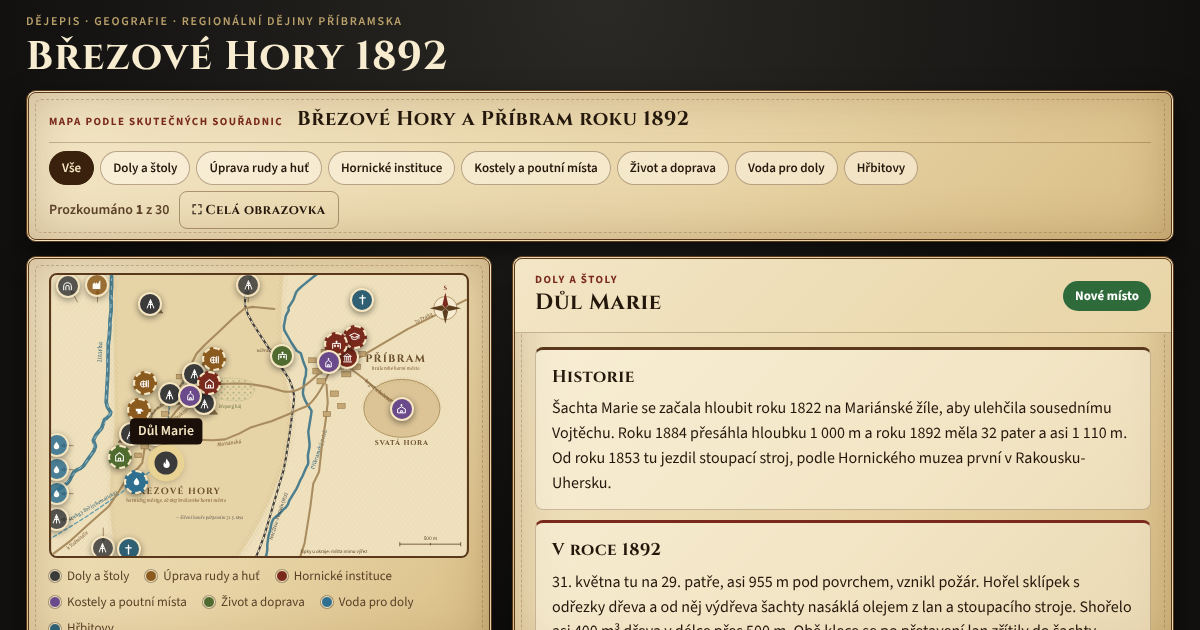
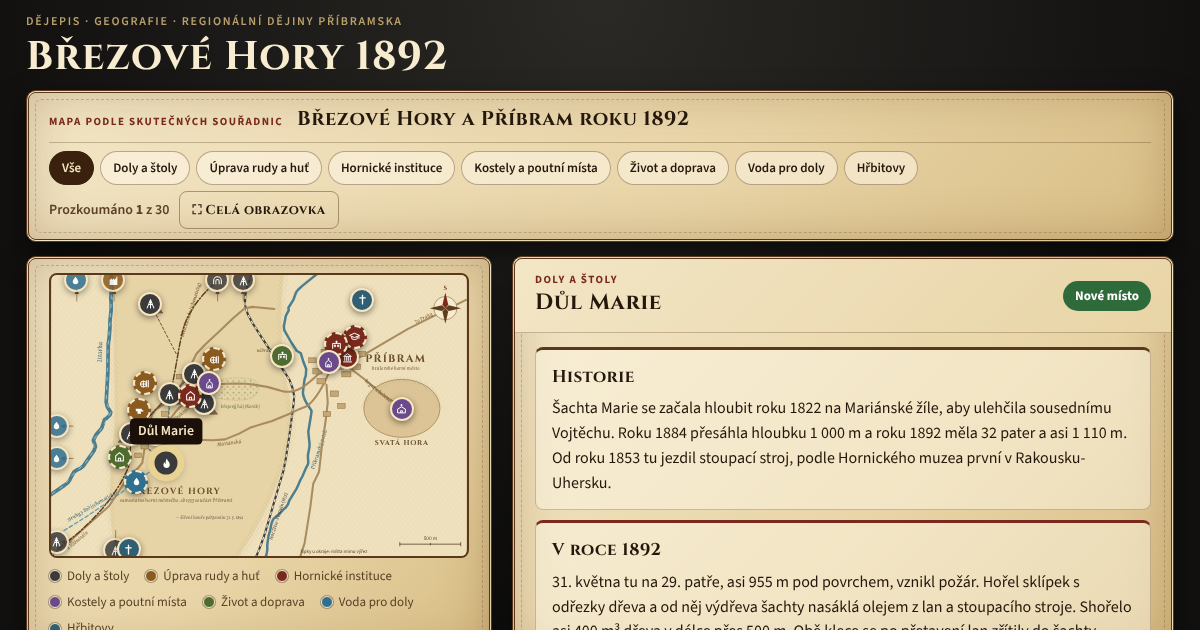
Březové Hory 1892: odkazy na mapy.cz u šachet, technika v dolech, filtr slovníku, oprava Archivu DIAMO
Claude-Session: https://claude.ai/code/session_01HrWVDKT7SKjut35hBh8BN1

diff --git a/brezove-hory-1892/index.html b/brezove-hory-1892/index.html
@@ -393,6 +393,9 @@ body{background:var(--wood) radial-gradient(ellipse at 50% 0%,#2b2925 0%,var(--w
 .src-list li{font-size:15px}
 .pin.approx{border-style:dashed}
 .pin.edge{opacity:.85}
+.pin.edge.dim{opacity:.25}
+#edge-arrows path{transition:opacity .2s}
+#edge-arrows path.dim{opacity:.2}
 .note.pos{margin:10px 0 0;font-size:14px}
 .defbox{margin:0 0 8px;max-width:820px}
 .rez-wrap{overflow-x:auto;margin:14px 0 0;border:1px solid var(--parch-line);border-radius:8px;background:#efe1bd}
@@ -417,6 +420,10 @@ details.adv-warn p{margin:8px 0 0}
 .sh-tbl td.n b{white-space:nowrap}
 .maplink{min-height:36px;padding:4px 10px;border-radius:999px;border:1px solid var(--parch-line);background:#fbf5e4;color:var(--ink);font:600 13px var(--f-body);cursor:pointer;white-space:nowrap}
 .maplink:hover{border-color:var(--red)}
+.sh-links{min-width:150px}
+.sh-links .ext{display:flex;flex-wrap:wrap;gap:4px 10px;margin-top:6px;font-size:13px}
+.sh-links .ext a{color:var(--red);font-weight:600}
+.sh-links .ext-ap{flex-basis:100%;color:var(--ink-2);font-style:italic}
 @media (max-width:640px){
   .sh-tbl thead{display:none}
   .sh-tbl, .sh-tbl tbody, .sh-tbl tr, .sh-tbl td{display:block;width:100%}
@@ -592,9 +599,9 @@ details.adv-warn p{margin:8px 0 0}
         <text x="845" y="410" text-anchor="middle" font-family="Cinzel, Georgia, serif" font-size="17" font-weight="700" fill="#6b4f2c" letter-spacing="2">SVATÁ HORA</text>
 
         <!-- šipky k místům mimo výřez -->
-        <g fill="none" stroke="#7a5a32" stroke-width="1.6" marker-end="url(#arr)">
-          <path d="M60 64 L 60 40"/><path d="M150 64 L 150 40"/><path d="M400 64 L 400 40"/><path d="M462 64 L 462 40"/>
-          <path d="M52 365 L 26 365"/><path d="M52 443 L 26 443"/><path d="M52 645 L 26 645"/><path d="M154 616 L 154 642"/>
+        <g id="edge-arrows" fill="none" stroke="#7a5a32" stroke-width="1.6" marker-end="url(#arr)">
+          <path data-for="octarna" d="M60 64 L 60 40"/><path data-for="hut" d="M150 64 L 150 40"/><path data-for="stola" d="M400 64 L 400 40"/><path data-for="lill" d="M462 64 L 462 40"/>
+          <path data-for="pilska" d="M52 365 L 26 365"/><path data-for="laz" d="M52 443 L 26 443"/><path data-for="rimbaba" d="M52 645 L 26 645"/><path data-for="drkolnov" d="M154 616 L 154 642"/>
         </g>
         <text x="600" y="672" font-family="Source Sans 3, sans-serif" font-size="12" fill="#5e4728">šipky u okraje: místa mimo výřez</text>
 
@@ -746,6 +753,20 @@ details.adv-warn p{margin:8px 0 0}
       <p><b>Šachty byly propojené</b> chodbami na mnoha patrech, překopy a chodbami po žílách. Anna a Vojtěch jsou spojené 750 m dlouhou chodbou vodního patra. Propojení sloužilo k větrání, odvodnění a dopravě, ale 31. května 1892 jím prošel kouř z Marie do všech sousedních dolů.</p>
       <p class="src">Patra a hloubky podle Schenka (1972), Velfla a Hornického muzea; výšky ústí podle Pošepného (1892). Že číslování bylo společné, prameny výslovně neuvádějí, vychází to z porovnání uvedených hloubek. Průběh Vojtěšské žíly je v řezu jen naznačený: šachta Vojtěch byla roku 1779 založena mezi Vojtěšskou žílou a žílou Matky Boží pod pahorkem Koráb.</p>
     </div>
+    <div class="card" style="margin-top:12px"><span class="tag">Technika</span>
+      <h3 style="margin-top:8px">Jaké stroje v dolech pracovaly roku 1892</h3>
+      <p>Březové Hory patřily v 19. století k technicky nejvyspělejším dolům monarchie. Roku 1892 tu ale vedle sebe pracovaly stroje z různých dob: parní stroje, vodní kola i ruční doprava.</p>
+      <ul class="plist">
+        <li><b>Těžní stroje.</b> Na začátku století táhly lano s nádobou na rudu koňské <b>žentoury</b> a <b>vodní kola</b>. Pak přišly <b>parní těžní stroje</b>: Marie 1846 (první v revíru), Anna 1858, Vojtěch 1859, Štěpán v Bohutíně 1868, Prokop 1869, Ševčín (Francšachta) 1880, Lill 1882 a Řimbaba 1885. Na Vojtěchu stál od roku 1873 stroj o výkonu 300 koní, roku 1889 ho nahradil nový od firmy Breitfeld-Daněk o výkonu 450 koní, který mohl těžit až z hloubky 1 300 m. <b>Roku 1892 tedy všechny hlavní březohorské šachty těžily párou.</b> Poslední koňský žentour (Řimbaba) skončil roku 1876, poslední těžní vodní kolo (Drkolnov) roku 1891. Uhlí pro kotle přivážela od roku 1875 železnice.</li>
+        <li><b>Lana.</b> Místo konopných lan se tu jako jedněch z prvních v Evropě používala <b>drátěná lana</b>: poprvé roku 1836, běžně od roku 1842. Od roku 1853 je vyráběla vlastní drátovna a lanovna na Březových Horách a vyvážela je i do ciziny. Roku 1875 vytáhla šachta Vojtěch jako první na světě náklad jediným lanem z hloubky 1 000 m.</li>
+        <li><b>Klece.</b> Dřív se ruda vytahovala v sudech a nádobách. <b>Těžní klec</b>, do které se zavezl celý vozík, zavedli na Marii roku 1853, na Anně 1858 a na Prokopu 1859. Klec visela na laně, vodila se po dřevěném vedení v šachtě a měla zachycovací zařízení pro případ přetržení lana. Na Francšachtě jezdily roku 1892 dvoupatrové klece, na Anně a Prokopu je zavedli až v letech 1894–1896.</li>
+        <li><b>Stoupací stroj</b> (Fahrkunst). Dvě dlouhé tyče se stupínky se střídavě pohybovaly nahoru a dolů a horník při každém zdvihu přestoupil na protější tyč. Šetřil síly při fárání do kilometrové hloubky. První v monarchii jezdil na Marii (prameny uvádějí rok 1849 i 1853), roku 1892 ho měly Marie a Anna. Na Marii ho poháněl parní stroj, který přes převod zároveň čerpal vodu. Poslední stoupací stroj (na Marii) zrušili roku 1916.</li>
+        <li><b>Čerpání vody.</b> Vodu z hlubin čerpala pístová čerpadla poháněná vodními koly, od 60. let <b>vodosloupcovými stroji</b> (na Vojtěchu od 1862, 32 koní, poháněl 10 čerpadel) a parou (samostatné parní čerpací stroje na Vojtěchu a Lillu od 1863). Proto doly i v době páry potřebovaly vodu z brdských rybníků a Struh.</li>
+        <li><b>Vozíky, koleje, výhybky.</b> V chodbách se ruda vozila v dřevěných, železem kovaných <b>důlních vozících</b> (hornicky <b>hunt</b>). Vozík jezdil po kolejích a tlačil ho <b>vozač</b>, na hlavních chodbách od roku 1875 táhli vlaky vozíků i <b>koně</b>. Na křižovatkách chodeb se vozíky převáděly <b>výhybkami</b> a <b>točnami</b>, u šachty je narážeč zavezl do klece. Chodby se proto razily s mírným sklonem k šachtě, aby plný vozík jel snáz a voda odtékala. Pokusné lokomotivy na stlačený vzduch se objevily na přelomu 70. a 80. let, běžně se ale vozilo ručně až do 20. století.</li>
+        <li><b>Stlačený vzduch a světlo.</b> Od roku 1873 poháněl parní kompresor na Lillu vrtací stroje a malé vrátky v podzemí (roku 1896 už bylo kompresorů osm). Horníci si svítili <b>kahany</b> (otevřený plamen): elektrické osvětlení se v revíru zavádělo až v letech 1893–1896. Elektrické těžní stroje přišly až ve 20. století.</li>
+      </ul>
+      <p class="src">Podle: <a href="https://podzemi.solvayovylomy.cz/histhor/lokality/pribram2/PRIBRAM2.htm" target="_blank" rel="noopener">Dějiny dolování polymetalických rud (Bambas)</a> · <a href="https://www.muzeum-pribram.cz/userfiles/vystavy/1000m/P1.pdf" target="_blank" rel="noopener">Hornické muzeum: Důl Vojtěch</a> · <a href="https://www.muzeum-pribram.cz/userfiles/vystavy/1000m/P4.pdf" target="_blank" rel="noopener">Hornické muzeum: technika dolu Vojtěch</a>. Popis vozíků, kolejí a výhybek je obecný pro doly té doby.</p>
+    </div>
     <div class="card" style="margin-top:12px"><span class="tag">Důlní měřiči (markšajdři)</span>
       <h3 style="margin-top:8px">Precizní práce ve tmě</h3>
       <p>Bez důlních měřičů by nebylo možné patra ani spojení šachet vůbec vybudovat. <b>Markšajdr</b> (z něm. Markscheider) musel v úplné tmě, ve vlhku a s kahanem v ruce změřit každou chodbu tak přesně, aby se dalo plánovat na stovky metrů dopředu.</p>
@@ -764,10 +785,10 @@ details.adv-warn p{margin:8px 0 0}
       <p><b>Kde jsou dnes:</b></p>
       <ul class="plist">
         <li><b>Hornické muzeum Příbram</b> má ve sbírkách historické mapy revíru; část byla digitalizována a je k prohlížení na portálu <a href="https://chartae-antiquae.cz/" target="_blank" rel="noopener">Chartae antiquae</a>.</li>
-        <li><b>DIAMO, státní podnik</b>, nástupce Rudných dolů Příbram, sídlí od roku 2001 v budově bývalého horního ředitelství a spravuje dokumentaci uzavřených dolů.</li>
+        <li><b>Archiv DIAMO</b> (státní podnik DIAMO spravuje dokumentaci uzavřených dolů jako nástupce Rudných a Uranových dolů Příbram) sídlí od počátku 90. let v areálu bývalé <b>šachty č. 15</b> uranových dolů v Příbrami-Brodu. Ve fondu Rudné doly Příbram jsou i historické důlní mapy březohorského revíru a důlně měřická dokumentace z Březových Hor; uložena je v bývalé lampovně šachty. V archivu je badatelna. (Budovu bývalého horního ředitelství na náměstí T. G. Masaryka DIAMO užíval jen v letech 2001–2006, dnes patří městu.)</li>
         <li><b>Česká geologická služba (Geofond)</b> shromažďuje dokumentaci starých a uzavřených důlních děl z celé republiky.</li>
       </ul>
-      <p class="src">Přesné uložení konkrétních map z 19. století si ověř přímo v Hornickém muzeu Příbram; dokumentace se během 20. století mezi institucemi přesouvala.</p>
+      <p class="src">Podle: <a href="https://www.diamo.cz/storage/app/media/Archiv/Podbrdsko_XXXI_2024_D%C4%9Bjiny%20a%20sou%C4%8Dasnost%20Archivu%20DIAMO.pdf" target="_blank" rel="noopener">P. Kantorová: Dějiny a současnost Archivu DIAMO (Podbrdsko 2024)</a> · <a href="https://www.diamo.cz/archiv-diamo/kontakt" target="_blank" rel="noopener">Archiv DIAMO – kontakt</a>. Přesné uložení konkrétních map z 19. století si ověř v Hornickém muzeu nebo v Archivu DIAMO; dokumentace se během 20. století mezi institucemi přesouvala.</p>
     </div>
   </div>
 </section>
@@ -782,7 +803,7 @@ details.adv-warn p{margin:8px 0 0}
     </div>
     <div class="filters" id="sh-filters" role="group" aria-label="Filtr šachet" style="margin-bottom:6px"></div>
     <div id="sh-list"></div>
-    <p class="note" style="margin-top:14px">Hloubka „1892“ je stav v roce katastrofy, „konečná“ je největší hloubka, které šachta dosáhla během celé těžby (často až ve 20. století). Pozdější šachty, které roku 1892 ještě neexistovaly: Obecnická průzkumná jáma (1912), Hůrka (1942) a slepé jámy Řimbabská a Eduard v Bohutíně (1956). Po roce 1948 vznikly na Příbramsku i desítky uranových jam.</p>
+    <p class="note" style="margin-top:14px">Odkazy <b>mapy.cz</b> a <b>19. století</b> otevřou v nové kartě dnešní mapu a mapu z 19. století (císařské otisky stabilního katastru). U průzkumných a starých jam přesnou polohu neznáme, odkaz pak vede jen k obci nebo dolu, u kterého jáma ležela. Hloubka „1892“ je stav v roce katastrofy, „konečná“ je největší hloubka, které šachta dosáhla během celé těžby (často až ve 20. století). Pozdější šachty, které roku 1892 ještě neexistovaly: Obecnická průzkumná jáma (1912), Hůrka (1942) a slepé jámy Řimbabská a Eduard v Bohutíně (1956). Po roce 1948 vznikly na Příbramsku i desítky uranových jam.</p>
     <p class="src" style="margin-top:10px">Podle: <a href="http://muzeum.mineral.cz/hornictvi/brezove-hory/souhrn.php" target="_blank" rel="noopener">Březohorský rudní revír – hloubky jam</a> · <a href="https://podzemi.solvayovylomy.cz/cteni/1000m/03.htm" target="_blank" rel="noopener">Doba třetí (1779–1875)</a> · <a href="http://muzeum.mineral.cz/hornictvi/brezove-hory/historie-dobyvani/dolovani-rud-19-stoleti.php" target="_blank" rel="noopener">Dolování rud v 19. století</a> · <a href="https://www.bergbaumuseum.de/fileadmin/forschung/zeitschriften/der-anschnitt/1972/1972-02/anschnitt-2-1972-schenk-grubenunglueck.pdf" target="_blank" rel="noopener">G. W. Schenk 1972</a> (hloubky 1892)</p>
   </div>
 </section>
@@ -980,6 +1001,7 @@ details.adv-warn p{margin:8px 0 0}
         <input type="search" id="lex-q" placeholder="Hledat (např. šichta, fárat, patro)">
       </label>
     </div>
+    <div class="filters" id="lex-f" role="group" aria-label="Filtr pojmů podle štítku" style="margin:0 0 14px"></div>
     <div class="grid g3 lex" id="lex"></div>
   </div>
 </section>
@@ -1374,6 +1396,7 @@ function renderMap() {
     const show = filter === 'all' || l.cat === filter;
     const pin = document.querySelector(`.pin[data-id="${l.id}"]`);
     pin.classList.toggle('dim', !show); pin.tabIndex = show ? 0 : -1;
+    const arw = document.querySelector(`#edge-arrows [data-for="${l.id}"]`); if (arw) arw.classList.toggle('dim', !show);
     pin.classList.toggle('seen', seen.has(l.id));
     pin.setAttribute('aria-current', String(l.id === currentLoc));
     const li = document.querySelector(`#loc-list [data-id="${l.id}"]`);
@@ -2250,39 +2273,48 @@ const SH_GROUPS = {
   pr:   { label: 'Průzkumné jámy', title: 'Průzkumné jámy', intro: 'Mělké jámy, kterými závod hledal nové žíly v okolí Příbrami. Většina dosáhla jen jednoho až několika pater.' },
   st:   { label: 'Staré jámy', title: 'Staré jámy, které už nesloužily', intro: 'Na Březových Horách se těžilo od 14. století a hřbet je posetý starými jámami. Tyto se v pramenech připomínají jako starší nebo opuštěné; v přehledech hlavních jam z konce 19. století už nefigurují.' }
 };
-// n = jméno, g = skupina, z = založena, h = hloubka, p = poznámka, d = dnes, m = id místa na mapě
+// ll = [šířka, délka], q = 'p' přesná poloha, 'a:…' přibližně (u čeho); n = jméno, g = skupina, z = založena, h = hloubka, p = poznámka, d = dnes, m = id místa na mapě
 const SHAFTS = [
-  { n: 'Vojtěch', a: 'Adalbert', g: 'bh', z: '1779', h: '1 099 m (1892)', p: '1875 první na světě 1 000 m; nejvíc obětí katastrofy', d: 'Hornické muzeum, vyhlídková věž na šachetní budově', m: 'vojtech' },
-  { n: 'Anna', g: 'bh', z: '1789', h: '942 m (1892)', p: 'stoupací stroj; hlavní základna záchrany', d: 'Hornické muzeum, parní těžní stroj z roku 1914', m: 'anna' },
-  { n: 'Císař František Josef I.', a: 'Ševčinská, lidově Francšachta', g: 'bh', z: '1813', h: '991 m (1892)', p: 'dvoupatrové klece; vtažná jáma; kouř sem dorazil první', d: 'hlavní areál Hornického muzea (Ševčinský důl)', m: 'sevcin' },
-  { n: 'Marie', g: 'bh', z: '1822', h: 'asi 1 110 m (1892)', p: 'stoupací stroj od 1853; ohnisko požáru', d: 'Mariánská štola, pomník vdovám a sirotkům', m: 'marie' },
-  { n: 'Prokop', g: 'bh', z: '1832', h: '909 m (1892)', p: 'klecová těžba od 1858, parní stroj od 1869', d: 'Prokopská štola s důlním vláčkem', m: 'prokop' },
-  { n: 'Drkolnov', a: 'původně August', g: 'bh', z: '1836', h: 'konečná 425 m', p: 'podzemní vodní kolo o průměru 12,4 m', d: 'vodní kolo přístupné s průvodcem Hornického muzea', m: 'drkolnov' },
-  { n: 'Jarošovka', g: 'cj', z: '1814 (obnovena)', h: 'konečná 219 m', p: 'prohloubena 1864', d: '' },
-  { n: 'Ferdinand', g: 'cj', z: '1820', h: 'konečná 325 m', p: 'od 1866 zděná šachetní budova; dobývala Strachovskou žílu', d: 'místní název Ferdinandka', m: 'ferdinand' },
-  { n: 'Lill', g: 'cj', z: '1857', h: 'konečná 455 m', p: 'v provozu asi do 1902; nenapojena na dědičnou štolu', d: 'část haldy přenesena do Hornického muzea', m: 'lill' },
-  { n: 'Štěpán', g: 'bo', z: '1827', h: 'konečná 864 m', p: 'pojmenována po arcivévodovi Štěpánovi', d: '' },
-  { n: 'František', g: 'bo', z: '1843', h: 'konečná 133 m', p: 'parní těžní stroj od 1850; 1859 průraz dědičné štoly do Řimbaby', d: '' },
-  { n: 'Řimbaba', a: 'Seegen Gottes', g: 'bo', z: '1843', h: '270 m', p: 'parní těžba od 1885, uzavřena 1900', d: 'vyhlídková věž', m: 'rimbaba' },
-  { n: 'Kozičín', g: 'bo', z: '1870', h: '200 m', p: 'nenapojena na dědičnou štolu', d: '' },
-  { n: 'Rudolf', g: 'bo', z: '1878', h: 'konečná 1 199 m', p: 'později důl 25. února', d: '' },
-  { n: 'Zdabořská', g: 'pr', z: '1858', h: '92 m', p: '', d: '' },
-  { n: 'Schwarzenberská', a: 'u Žežic', g: 'pr', z: '1862', h: '158 m', p: 'hloubila ji obec Příbram a pražské arcibiskupství', d: '' },
-  { n: 'Sádecká', g: 'pr', z: '1866', h: '240 m', p: 'práce přerušeny 1869', d: '' },
-  { n: 'Svatohorská', g: 'pr', z: '1867', h: '300 m', p: '', d: '' },
-  { n: 'Květenská', g: 'pr', z: '1867–1871', h: '270 m', p: 'průzkum do 1885', d: '' },
-  { n: 'Novohospodská', g: 'pr', z: '1885', h: '44 m', p: '', d: '' },
-  { n: 'Třebská', g: 'pr', z: '1887', h: '60 m', p: '', d: '' },
-  { n: 'Narysovská', g: 'pr', z: '1892', h: '64 m', p: 'založena v roce katastrofy', d: '' },
-  { n: 'Mučednická', a: 'pumpařská', g: 'st', z: 'asi 17. stol.', h: '', p: 'stará čerpací jáma na Mučednické žíle ze 17. století; roku 1813 se na jejím místě obnovila šachta, pozdější Císař František Josef I.', d: '' },
-  { n: 'Janská ležatá jáma', g: 'st', z: 'před 1779', h: '', p: 'šikmá jáma na Janské žíle; roku 1787 vedle ní vznikla svislá Janská jáma a 1789 Anna', d: '' },
-  { n: 'Strachovská', a: 'Strachová', g: 'st', z: 'stará', h: '', p: 'roku 1813 k ní dorazila dědičná štola; žílu pak dobývala šachta Ferdinand', d: '' },
-  { n: 'Volfgangova', a: 'Wolfgang', g: 'st', z: 'stará, hlavní od 1827', h: '', p: 'hlavní jáma na Volfgangově žíle u Drkolnova; 1838 po poruše čerpání zatopena', d: '' },
+  { n: 'Vojtěch', ll: [49.6861, 13.99139], q: 'p', a: 'Adalbert', g: 'bh', z: '1779', h: '1 099 m (1892)', p: '1875 první na světě 1 000 m; nejvíc obětí katastrofy', d: 'Hornické muzeum, vyhlídková věž na šachetní budově', m: 'vojtech' },
+  { n: 'Anna', ll: [49.68762, 13.99417], q: 'p', g: 'bh', z: '1789', h: '942 m (1892)', p: 'stoupací stroj; hlavní základna záchrany', d: 'Hornické muzeum, parní těžní stroj z roku 1914', m: 'anna' },
+  { n: 'Císař František Josef I.', ll: [49.68315, 13.98702], q: 'p', a: 'Ševčinská, lidově Francšachta', g: 'bh', z: '1813', h: '991 m (1892)', p: 'dvoupatrové klece; vtažná jáma; kouř sem dorazil první', d: 'hlavní areál Hornického muzea (Ševčinský důl)', m: 'sevcin' },
+  { n: 'Marie', ll: [49.68105, 13.99097], q: 'p', g: 'bh', z: '1822', h: 'asi 1 110 m (1892)', p: 'stoupací stroj od 1853; ohnisko požáru', d: 'Mariánská štola, pomník vdovám a sirotkům', m: 'marie' },
+  { n: 'Prokop', ll: [49.68543, 13.9953], q: 'p', g: 'bh', z: '1832', h: '909 m (1892)', p: 'klecová těžba od 1858, parní stroj od 1869', d: 'Prokopská štola s důlním vláčkem', m: 'prokop' },
+  { n: 'Drkolnov', ll: [49.67179, 13.98408], q: 'p', a: 'původně August', g: 'bh', z: '1836', h: 'konečná 425 m', p: 'podzemní vodní kolo o průměru 12,4 m', d: 'vodní kolo přístupné s průvodcem Hornického muzea', m: 'drkolnov' },
+  { n: 'Jarošovka', ll: [49.6935, 13.9945], q: 'a:Černé jámy u Ferdinandu', g: 'cj', z: '1814 (obnovena)', h: 'konečná 219 m', p: 'prohloubena 1864', d: '' },
+  { n: 'Ferdinand', ll: [49.69277, 13.98919], q: 'p', g: 'cj', z: '1820', h: 'konečná 325 m', p: 'od 1866 zděná šachetní budova; dobývala Strachovskou žílu', d: 'místní název Ferdinandka', m: 'ferdinand' },
+  { n: 'Lill', ll: [49.697, 14.0003], q: 'p', g: 'cj', z: '1857', h: 'konečná 455 m', p: 'v provozu asi do 1902; nenapojena na dědičnou štolu', d: 'část haldy přenesena do Hornického muzea', m: 'lill' },
+  { n: 'Štěpán', ll: [49.65836, 13.95061], q: 'p', g: 'bo', z: '1827', h: 'konečná 864 m', p: 'pojmenována po arcivévodovi Štěpánovi', d: '' },
+  { n: 'František', ll: [49.6572, 13.9505], q: 'a:Bohutín', g: 'bo', z: '1843', h: 'konečná 133 m', p: 'parní těžní stroj od 1850; 1859 průraz dědičné štoly do Řimbaby', d: '' },
+  { n: 'Řimbaba', ll: [49.66647, 13.96503], q: 'p', a: 'Seegen Gottes', g: 'bo', z: '1843', h: '270 m', p: 'parní těžba od 1885, uzavřena 1900', d: 'vyhlídková věž', m: 'rimbaba' },
+  { n: 'Kozičín', ll: [49.6742, 13.9511], q: 'a:Kozičín', g: 'bo', z: '1870', h: '200 m', p: 'nenapojena na dědičnou štolu', d: '' },
+  { n: 'Rudolf', ll: [49.6572, 13.9505], q: 'a:Bohutín', g: 'bo', z: '1878', h: 'konečná 1 199 m', p: 'později důl 25. února', d: '' },
+  { n: 'Zdabořská', ll: [49.6623, 13.9802], q: 'a:Zdaboř', g: 'pr', z: '1858', h: '92 m', p: '', d: '' },
+  { n: 'Schwarzenberská', ll: [49.6535, 13.996], q: 'a:Žežice', a: 'u Žežic', g: 'pr', z: '1862', h: '158 m', p: 'hloubila ji obec Příbram a pražské arcibiskupství', d: '' },
+  { n: 'Sádecká', ll: [49.7331, 13.9827], q: 'a:Sádek', g: 'pr', z: '1866', h: '240 m', p: 'práce přerušeny 1869', d: '' },
+  { n: 'Svatohorská', ll: [49.6854, 14.0188], q: 'a:Svatá Hora', g: 'pr', z: '1867', h: '300 m', p: '', d: '' },
+  { n: 'Květenská', ll: [49.7053, 14.0255], q: 'a:vrch Květná', g: 'pr', z: '1867–1871', h: '270 m', p: 'průzkum do 1885', d: '' },
+  { n: 'Novohospodská', ll: [49.6896, 14.0359], q: 'a:Nová Hospoda', g: 'pr', z: '1885', h: '44 m', p: '', d: '' },
+  { n: 'Třebská', ll: [49.6207, 13.9714], q: 'a:Třebsko', g: 'pr', z: '1887', h: '60 m', p: '', d: '' },
+  { n: 'Narysovská', ll: [49.6431, 13.9678], q: 'a:Narysov', g: 'pr', z: '1892', h: '64 m', p: 'založena v roce katastrofy', d: '' },
+  { n: 'Mučednická', ll: [49.68315, 13.98702], q: 'a:u Ševčinského dolu', a: 'pumpařská', g: 'st', z: 'asi 17. stol.', h: '', p: 'stará čerpací jáma na Mučednické žíle ze 17. století; roku 1813 se na jejím místě obnovila šachta, pozdější Císař František Josef I.', d: '' },
+  { n: 'Janská ležatá jáma', ll: [49.68762, 13.99417], q: 'a:u dolu Anna', g: 'st', z: 'před 1779', h: '', p: 'šikmá jáma na Janské žíle; roku 1787 vedle ní vznikla svislá Janská jáma a 1789 Anna', d: '' },
+  { n: 'Strachovská', ll: [49.69277, 13.98919], q: 'a:u dolu Ferdinand', a: 'Strachová', g: 'st', z: 'stará', h: '', p: 'roku 1813 k ní dorazila dědičná štola; žílu pak dobývala šachta Ferdinand', d: '' },
+  { n: 'Volfgangova', ll: [49.67179, 13.98408], q: 'a:u Drkolnova', a: 'Wolfgang', g: 'st', z: 'stará, hlavní od 1827', h: '', p: 'hlavní jáma na Volfgangově žíle u Drkolnova; 1838 po poruše čerpání zatopena', d: '' },
   { n: 'Kovářská', g: 'st', z: 'stará', h: '', p: 'starý důl na Vojtěšské žíle, obnovený roku 1810', d: '' },
   { n: 'Novoroční', g: 'st', z: 'stará', h: '', p: 'ještě roku 1790 otevřená', d: '' },
-  { n: 'Bohutínská', g: 'st', z: 'před 1832', h: '', p: 'hloubení zastaveno roku 1832 kvůli přívalu vody', d: '' }
+  { n: 'Bohutínská', ll: [49.6572, 13.9505], q: 'a:Bohutín', g: 'st', z: 'před 1832', h: '', p: 'hloubení zastaveno roku 1832 kvůli přívalu vody', d: '' }
 ];
 let shFilter = 'all';
+function extLinks(s) {
+  if (!s.ll) return '';
+  const [la, lo] = s.ll, id = encodeURIComponent(lo + ',' + la);
+  const ap = s.q !== 'p';
+  const u = (typ, z) => `https://mapy.cz/${typ}?x=${lo}&y=${la}&z=${z}&source=coor&id=${id}`;
+  return `<span class="ext">${ap ? `<span class="ext-ap" title="Přesná poloha jámy není známa">přibližně: ${esc(s.q.slice(2))}</span>` : ''}` +
+    `<a href="${u('zakladni', ap ? 15 : 17)}" target="_blank" rel="noopener">mapy.cz</a>` +
+    `<a href="${u('19stoleti', ap ? 15 : 16)}" target="_blank" rel="noopener">19. století</a></span>`;
+}
 function renderShafts() {
   const chip = (k, l) => `<button class="chip" type="button" data-shf="${k}" aria-pressed="${k === shFilter}">${esc(l)}</button>`;
   $('sh-filters').innerHTML = chip('all', 'Vše') + Object.entries(SH_GROUPS).map(([k, g]) => chip(k, g.label)).join('');
@@ -2294,7 +2326,7 @@ function renderShafts() {
       rows.map(s => `<tr><td class="n" data-l="Šachta"><b>${esc(s.n)}</b>${s.a ? ` <span class="src">(${esc(s.a)})</span>` : ''}</td>
         <td data-l="Založena">${esc(s.z)}</td>${old ? '' : `<td data-l="Hloubka">${esc(s.h)}</td>`}
         <td data-l="${old ? 'Co o ní víme' : 'Poznámka'}">${esc(s.p)}</td><td data-l="Dnes">${esc(s.d || '–')}</td>
-        <td>${s.m ? `<button class="maplink" type="button" data-loc="${s.m}">Ukázat na mapě</button>` : ''}</td></tr>`).join('') +
+        <td class="sh-links">${s.m ? `<button class="maplink" type="button" data-loc="${s.m}">Ukázat na mapě</button>` : ''}${extLinks(s)}</td></tr>`).join('') +
       '</tbody></table></div></div>';
   }).join('');
 }
@@ -2345,6 +2377,9 @@ const LEX = [
   ['Vrchní horní správce', 'Lidé', 'Vedoucí úředník, který řídil provoz skupiny dolů. Roku 1892 jím byl Hugo Grögler, který vedl i záchranu.'],
   /* důl */
   ['Březové Hory (obec)', 'Právo a úřady', 'Roku 1892 byly Březové Hory samostatnou obcí se svým starostou a obecním výborem, horním městečkem odděleným od Příbrami. Rozhodnutím císaře Františka Josefa I. z 20. dubna 1896 byly povýšeny na královské horní město, privilegium a znak dostaly 19. ledna 1897. Samostatným městem zůstaly až do roku 1953, kdy se staly součástí Příbrami. Dnes jsou její městskou částí.'],
+  ['Ohlubeň', 'Důl', 'Ústí šachty na povrchu a plošina kolem něj, kde se nakládaly a vykládaly klece, nastupovali horníci a odkud se měří hloubka šachty i pater („metrů pod ohlubní“). Nad ohlubní stojí těžní věž nebo šachetní budova.'],
+  ['Překop', 'Důl', 'Chodba ražená napříč nebo kolmo ke směru žíly, obvykle v hluchém kameni (hlušině). Spojuje šachtu se žílami nebo jednotlivé žíly mezi sebou a slouží k dopravě a větrání. Chodba vedená podél žíly se naopak nazývá směrná.'],
+  ['Couk', 'Žíly', 'Staré hornické slovo pro žílu nebo žilné pásmo, z německého Zug (tah, pruh). Podle něj se jmenuje třeba setkání hornických měst Jílovský sCOUK.'],
   ['Francšachta', 'Důl', 'Lidové jméno šachty Císař František Josef I. (dnes Ševčinský důl), odvozené od císařova jména Franz. Kouř sem 31. května 1892 dorazil jako první.'],
   ['Důlní mapa', 'Důl', 'Mapa chodeb jednoho patra nebo svislý řez dolem, nakreslená podle měření markšajdrů. Zakreslují se do ní i žíly. Historické mapy příbramského revíru má Hornické muzeum Příbram.'],
   ['Markšajdka', 'Důl', 'Měřická kancelář při horním ředitelství, kde se zpracovávala měření a kreslily důlní mapy.'],
@@ -2390,12 +2425,18 @@ const LEX = [
   ['Hory', 'Jazyk', 'Ve staré češtině znamenalo slovo „hory“ také doly (odtud „horník“). Březové Hory jsou tedy doly v březovém lese, ne hory jako kopce.'],
   ['Sv. Prokop a sv. Barbora', 'Jazyk', 'Patroni horníků. Na Březových Horách mají oba oltář v kostele sv. Prokopa.']
 ];
+let lexCat = 'all';
 function renderLex() {
   const q = $('lex-q').value.trim().toLocaleLowerCase('cs');
-  const list = LEX.filter(([t, c, d]) => !q || (t + ' ' + c + ' ' + d).toLocaleLowerCase('cs').includes(q));
+  const cats = [...new Set(LEX.map(x => x[1]))].sort((a, b) => a.localeCompare(b, 'cs'));
+  const chip = (k, l, n) => `<button class="chip" type="button" data-lc="${esc(k)}" aria-pressed="${k === lexCat}">${esc(l)} <span style="opacity:.6">${n}</span></button>`;
+  $('lex-f').innerHTML = chip('all', 'Vše', LEX.length) + cats.map(c => chip(c, c, LEX.filter(x => x[1] === c).length)).join('');
+  const list = LEX.filter(([t, c, d]) => (lexCat === 'all' || c === lexCat) && (!q || (t + ' ' + c + ' ' + d).toLocaleLowerCase('cs').includes(q)));
   $('lex').innerHTML = list.length ? list.map(([t, c, d]) => `<div class="card"><span class="tag">${esc(c)}</span><h3>${esc(t)}</h3><p>${esc(d)}</p></div>`).join('')
     : '<p style="grid-column:1/-1;text-align:center;color:var(--ink-2)">Žádný pojem neodpovídá hledání.</p>';
 }
+
+$('lex-f').addEventListener('click', e => { const b = e.target.closest('[data-lc]'); if (!b) return; lexCat = b.dataset.lc; renderLex(); });
 
 /* ==================== KVÍZ ==================== */
 const Q_TOPICS = {
@@ -2489,7 +2530,7 @@ const QUIZ = [
   { id: 'v11', t: 'voda', z: 'Vodní kola', q: 'K čemu sloužila vodní kola v podzemí?', a: 'Čerpala vodu z dolů a pohybovala stroji.',
     w: ['Vyráběla elektřinu pro osvětlení.', 'Mlela obilí pro horníky.', 'Větrala chodby.'], e: 'Stála v komorách na tzv. vodním patře. Vodní kolo na Drkolnově má průměr 12,4 m.' },
   { id: 'v12', t: 'voda', z: 'Parní stroje', q: 'Čím se od poloviny 19. století postupně nahrazovala vodní kola?', a: 'Parními stroji.',
-    w: ['Elektromotory.', 'Koňskými žentoury.', 'Větrnými mlýny.'], e: 'Na Vojtěchu dostali parní čerpací stroj roku 1859. Vodu z Brd ale doly potřebovaly dál.' },
+    w: ['Elektromotory.', 'Koňskými žentoury.', 'Větrnými mlýny.'], e: 'Na Vojtěchu dostali parní těžní stroj roku 1859 a samostatný parní čerpací stroj roku 1863. Vodu z Brd ale doly potřebovaly dál.' },
 
   /* ---------- den katastrofy ---------- */
   { id: 'd1', t: 'den', z: 'Počet obětí', q: 'Kolik lidí zahynulo při březohorské katastrofě?', a: '319.',
